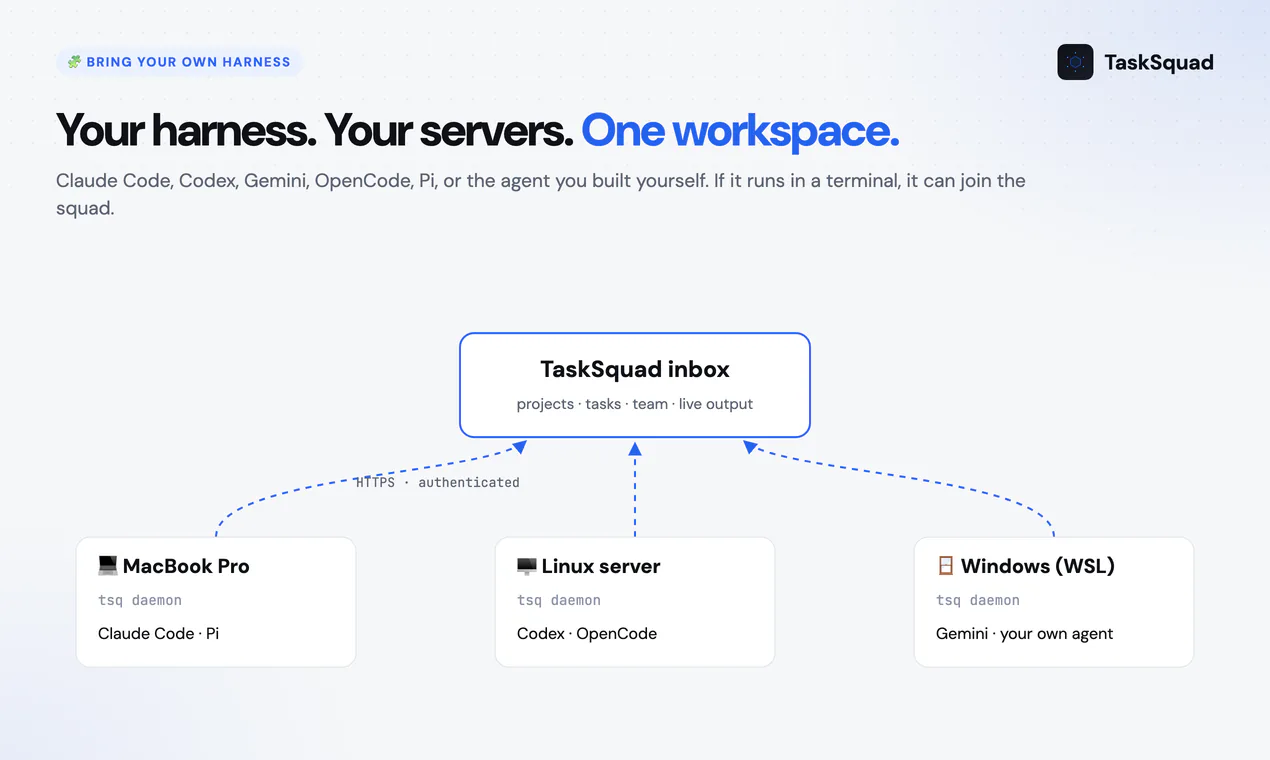
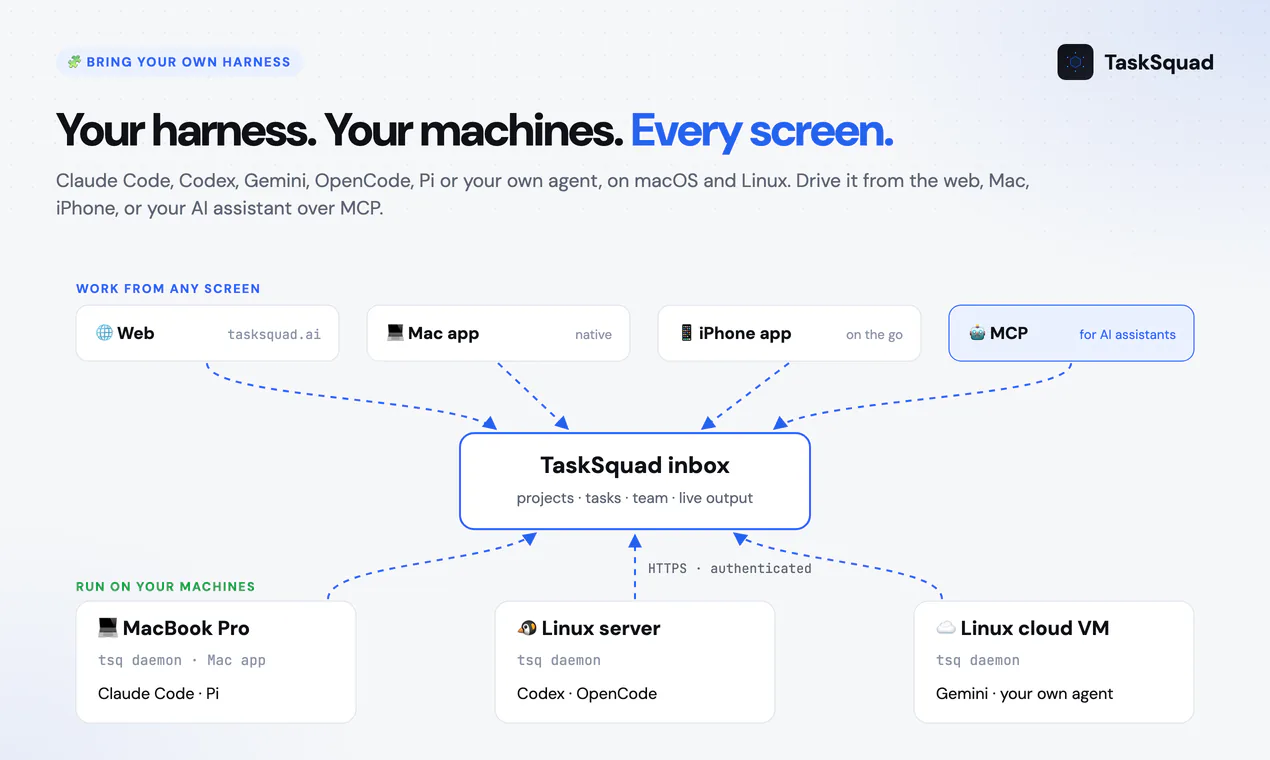
chore: preserve pending launch assets and demo updates
Recovery snapshot of existing working-tree changes before cleanup. Kept separate from main; unfinished feature work has not been validated for release.

diff --git a/packages/portal/src/pages/Demo.tsx b/packages/portal/src/pages/Demo.tsx
@@ -11,16 +11,16 @@ import { useRouteMeta } from '../lib/useRouteMeta'
 // Product tour slides. Images are generated by launch/media/render.sh + convert-web.mjs
 // into public/demo/NN.webp (1270w) and NN@2x.webp (2540w).
 const SLIDES = [
-  { title: 'One creative workspace for teams and agents', description: 'Bring any harness and your own servers. See every agent at work, learn together, and track every run.' },
+  { title: 'One creative workspace for teams and agents', description: 'Bring any harness to your Mac and Linux machines. Work from the web, Mac or iPhone, and let your AI assistant join over MCP.' },
   { title: 'Delegate like email', description: 'Send a task, follow every tool call, reply mid-task to steer, and close the session when it is done.' },
-  { title: 'Your harness, your servers', description: 'Claude Code, Codex, Gemini, OpenCode, Pi, or the agent you built yourself, running on your own machines.' },
+  { title: 'Your harness, your machines, every screen', description: 'Claude Code, Codex, Gemini, OpenCode, Pi or your own agent on macOS and Linux, driven from the web, Mac, iPhone, or your AI assistant over MCP.' },
   { title: 'Secure by design', description: 'Your repo and model API keys never leave your machine. Transcripts are encrypted before upload.' },
   { title: 'Planner', description: 'Split a big goal into phases, each handled by the right agent, with your approval in between.' },
   { title: 'Supervisor', description: 'When a task goes quiet, a second session inspects the terminal, unblocks it or escalates.' },
   { title: 'Notes', description: 'Write specs together, get an agent critique, and turn the note into a task with full context.' },
   { title: 'Memory & Skills', description: 'Decisions and conventions become shared memory; reusable skills sync to every agent.' },
   { title: 'Observe, govern, track', description: 'Outcomes, time to done, tool calls, tokens and feedback, per agent and per day, across every harness.' },
-  { title: 'Get started in two minutes', description: 'Install tsq, sign in, and send your first task.' },
+  { title: 'Get started in two minutes', description: 'Install tsq, sign in, send your first task, and optionally connect your AI assistant over MCP.' },
 ]
 
 const slideSrc = (i: number, suffix = '') => `/demo/${String(i + 1).padStart(2, '0')}${suffix}.webp`

diff --git a/launch/producthunt.md b/launch/producthunt.md
@@ -27,9 +27,9 @@ Alternative: "TaskSquad: where AI & teams work" (32 chars), which is grammatical
 
 **Description** (limit 260 characters):
 
-> TaskSquad is the creative workspace where your team and AI agents build together. Bring any harness, even your own, on your own machines. Watch agents work live, govern who runs what, learn as a team, and track every run with analytics.
+> TaskSquad is the creative workspace where your team and AI agents build together. Bring any harness to your Mac and Linux machines. Work from the web, Mac or iPhone, connect your AI assistant over MCP, and track every run.
 
-(236 chars)
+(222 chars)
 
 **Topics:** Artificial Intelligence · Developer Tools · Productivity · Team Collaboration
 
@@ -58,8 +58,14 @@ Alternative: "TaskSquad: where AI & teams work" (32 chars), which is grammatical
 > 🧩 **Bring your own harness.** Claude Code, Codex, Gemini, OpenCode, Pi, or the agent you built yourself. If it
 > runs in a terminal, it can join the squad.
 >
-> 🖥 **Bring your own servers.** Agents run on your laptops, workstations and servers. Your repo is never uploaded,
-> and model API keys stay on your machines.
+> 🖥 **Bring your own servers.** Agents run on your macOS and Linux laptops, workstations and servers. Your repo is
+> never uploaded, and model API keys stay on your machines.
+>
+> 📱 **Every screen.** Work from the web, the native Mac app, or the iPhone app. Start a task at your desk and
+> answer the agent from your phone.
+>
+> 🤖 **MCP for your AI assistant.** Connect Claude Code or any MCP client to `https://tasksquad.ai/mcp` and it can
+> send tasks, follow them and reply, signed in as you. Deletes and membership changes stay manual.
 >
 > 👀 **See everything.** Live output, every tool call, and full transcripts. When an agent goes quiet, a Supervisor
 > inspects its terminal and unblocks it or escalates.
@@ -92,18 +98,20 @@ Screenshot sources are in `launch/media/shots/`, and the content-only crops in `
 | Order | File (`launch/media/gallery/`) | What it shows |
 |---|---|---|
 | Thumbnail | `thumbnail.png` (240×240) | Logo on accent |
-| 1 · Feature graphic | `01.png` | Tagline, supported agents, inbox and thread, "Secure, open, observable" card |
+| 1 · Feature graphic | `01.png` | Tagline, supported agents, inbox and thread, "Secure, open, observable" card (macOS + Linux, Web/Mac/iPhone, MCP) |
 | 2 | `02.png` | Inbox thread: prompt, tool calls, agent reply |
-| 3 | `03.png` | Bring your own harness and servers: daemons on Mac, Linux and Windows (WSL) feeding one inbox |
+| 3 | `03.png` | Your harness, your machines, every screen: Web, Mac, iPhone and MCP clients above one inbox, daemons on macOS and Linux below |
 | 4 | `04.png` | Security boundary: what stays local and what reaches the cloud |
 | 5 | `05.png` | Planner: phases, harness and sub-agent per phase, approvals |
 | 6 | `06.png` | Supervisor: a resolved verdict with what it found and did |
 | 7 | `07.png` | Notes: spec with teammate comment and agent critique |
 | 8 | `08.png` | Memory and skills by category and tag |
 | 9 | `09.png` | Observability and analytics: outcomes, tokens, tool calls, feedback |
-| 10 | `10.png` | Get started: install commands, 3 steps, supported agents |
+| 10 | `10.png` | Get started: install, sign in, `claude mcp add`, 3 steps, supported agents and platforms |
 | Overview A | `bento-1.png` | **Run the work:** Inbox, Supervisor, Portals, Conveyor |
 | Overview B | `bento-2.png` | **Grow the squad:** Agents, Notes, Memory, Skills |
+| Apps | `apps-1..5.png` | Web, Mac and iPhone apps (apps-1 and apps-2 also show MCP) |
+| MCP | `mcp.png` | MCP server: Claude Code sends a task to an agent through `tasksquad.ai/mcp` (labeled "Illustration": a mock terminal, not a screenshot) |
 | Overview C | `bento-3.png` | **Run it your way:** Collaboration, bring your own agents and machines, infrastructure, analytics, security |
 | OG | `og-image.png` (1200×630), also copied to `packages/portal/public/og-image.png` | Link preview |
 | Social | `../out/teaser-1600x900.png`, `../out/teaser-1080x1080.png` | "Launching on Product Hunt" posts |
@@ -125,8 +133,11 @@ Not today. The coordination layer runs on Cloudflare. Execution is already local
 **"Which agents are supported?"**
 Claude Code, Codex, Gemini CLI, OpenCode and Pi out of the box, plus any CLI that writes to stdout. OpenClaw is coming soon.
 
-**"Windows?"**
-Yes, through WSL. The daemon drives agents through tmux, so it needs a tmux-compatible environment. macOS and Linux work natively, and there's also a native macOS menu-bar app (DMG).
+**"Which platforms?"**
+Agents run on macOS and Linux, through the `tsq` daemon or the native Mac app. You work from the web, the Mac app or the iPhone app, and AI assistants connect over MCP. Windows isn't supported natively; WSL can work because the daemon only needs tmux, but we don't advertise it.
+
+**"Can my AI assistant use TaskSquad?"**
+Yes. Run `claude mcp add --transport http tasksquad https://tasksquad.ai/mcp` (or add that URL to any MCP client with OAuth). It signs in as you in the browser and can work the inbox, notes, planners, conveyors, memory and live terminals. Deleting things, managing members and creating agent tokens always stay manual in the portal.
 
 **"Why tmux?"**
 It gives every task a real, persistent terminal session. Agents keep their full interactive TUI, sessions survive daemon restarts, and you can attach locally or open a live browser terminal (Portal) into the exact same session.
@@ -182,3 +193,5 @@ Free covers up to 3 projects × 3 agents × 5 members. Pro is $29/mo for 10 proj
 | Owner / Maintainer / Member roles | `packages/worker/src/routes/teams.ts` |
 | Single-use, 60 s terminal tickets | `POST /terminal/ticket`, `docs/concepts/security.md` |
 | Windows needs WSL | `packages/daemon/README.md` |
+| MCP server at `tasksquad.ai/mcp`, OAuth sign-in as the user, destructive/membership/token tools blocked | `packages/mcp/README.md`, `packages/mcp/src/tools/blocked.ts` |
+| Native Mac and iPhone apps on the same workspace | `packages/macos`, `packages/ios`, `packages/mobile/TaskSquadPortal` |
